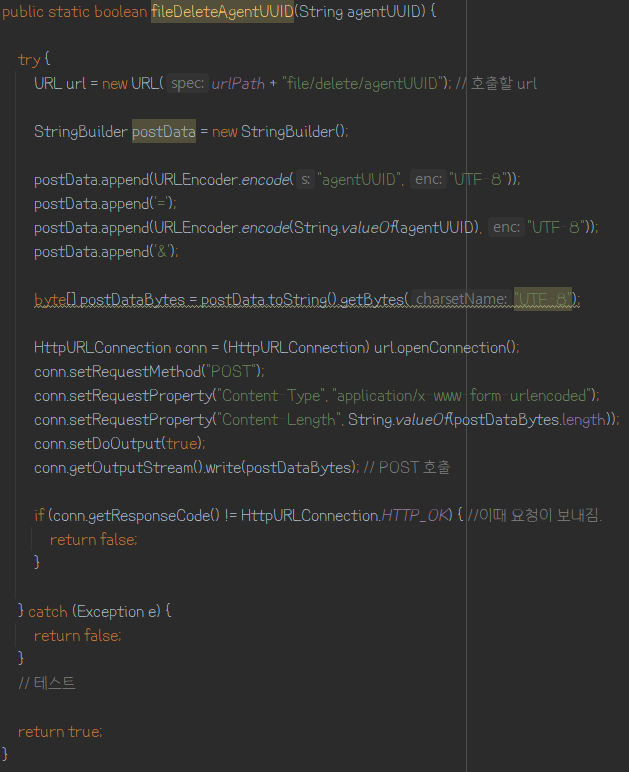
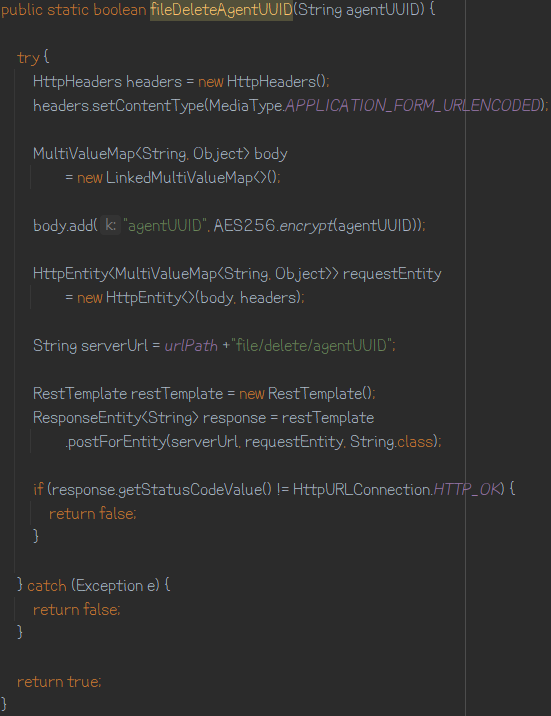
# 22.01.06 : 백엔드에서 API 요청(RestTemplate) 수정 및 추가

diff --git a/Spring/백엔드에서 API 요청(RestTemplate).md b/Spring/백엔드에서 API 요청(RestTemplate).md
@@ -1,0 +1,22 @@
+## 백엔드에서 API 요청(RestTemplate)
+
+* 파라미터 배열로 넘겨서 요청하기 (POST)
+    * 예제 코드
+      ![img_6.png](img_6.png)      
+
+* 파라미터 문자열로 넘겨서 요청하기 (POST)
+    * 예제 코드
+      ![img_7.png](img_7.png) 
+
+* 파라미터로 MultipartFile 넘겨서 요청하기 (POST)
+    * 예제 코드
+      ![img_8.png](img_8.png)
+      ![img_9.png](img_9.png)
+      
+    *  파일 전송시 한글 파일 명일 경우 파일 명이 깨지는 현상 해결
+      ![img_10.png](img_10.png)
+       
+
+### 참고
+* [백엔드에서 API 요청하기](https://github.com/eugenp/tutorials/blob/master/spring-web-modules/spring-resttemplate-3/src/main/java/com/baeldung/web/upload/client/MultipartFileUploadClient.java)
+* [RestTemplate 파일 전송시 한글 깨짐 현상 해결](https://okky.kr/article/389868)
